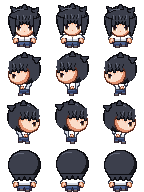
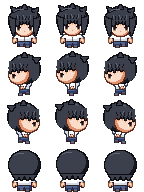
ちびキャラ：手を1ドット外へ
Claude-Session: https://claude.ai/code/session_017gxvkc2TW4xYgG5MuSL3N1

diff --git a/files.js b/files.js
@@ -2,7 +2,7 @@
 // マップなどを足したら scripts に1行足す（順番どおりに読み込む。main.js は最後）。
 // 版の番号 v は tools/stamp.py が書き換える。
 window.FILES = {
-  v: '20261127042346',
+  v: '20261127042650',
   scripts: [
     'engine/core.js',
     'engine/world.js',

diff --git a/tools/sprites/make_chibi.py b/tools/sprites/make_chibi.py
@@ -161,8 +161,8 @@ HAND = ['.oKLEE', 'oKMMKE', 'oLMMKE', 'oLLdKE', 'oKKEEE', '.EEE..']
 
 def hands(a, c):
     pal = {'o': c['handO'], 'd': c['handO'], 'E': c['line'], 'K': c['skinS'], 'L': c['skin2'], 'M': c['skin1']}
-    a.dots(-11, 38, HAND, pal)
-    a.dots(6, 38, [r[::-1] for r in HAND], pal)
+    a.dots(-12, 38, HAND, pal)
+    a.dots(7, 38, [r[::-1] for r in HAND], pal)
 
 
 def feet(a, c, side, step):
